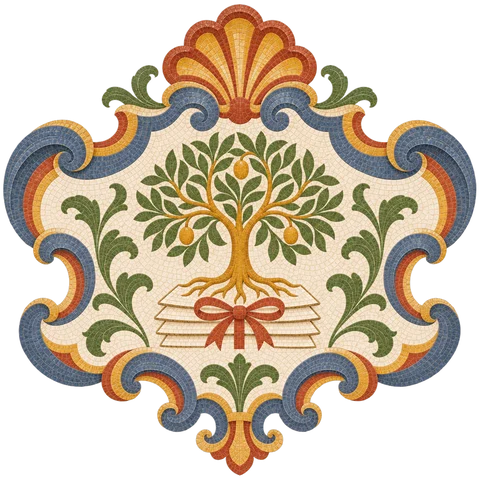
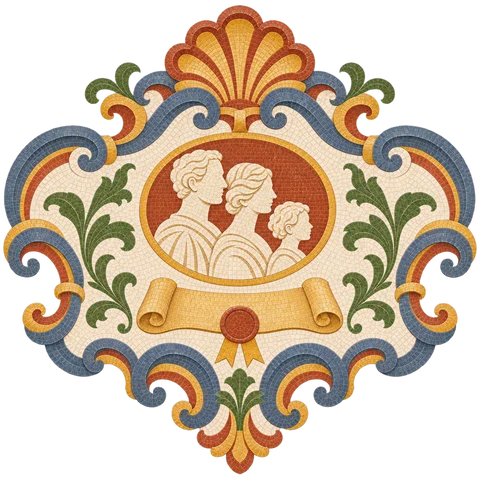
Vespi on the coin, the Kazakhstan passport, a family cameo
Owner: «отчекань на монетах самого Веспи», «на визу D изобрази именно
что паспорт Казахстана», «справки о семье переработай».

- DSU and ISEEU: Vespi minted on one large thin coin with a laurel rim,
  made with the Vespi master generation as a reference.
- Visa D: the passport of Kazakhstan, navy with the golden state emblem
  and the chip symbol, no writing; it also serves the visa point about
  the passport. The flag cartouche goes.
- Family documents: an oval cameo with the profiles of a family over a
  sealed certificate.

Claude-Session: https://claude.ai/code/session_01EJf3uoJW8TN46ucPCkbbdr

diff --git a/src/components/guides/guideArt.ts b/src/components/guides/guideArt.ts
@@ -26,9 +26,11 @@
    (56px) остаются предметами общего набора. Плоская классическая эмблема
    темы в барочном картуше из мраморной смальты,
    design/illustrations/cartouche-2026-11-19.json. Owner, 19 Nov (о плитках
-   каталога): у визы — «флаг конкретный Казахстана», монеты DSU «слишком
-   по-яичному… более утончённым», у справок семьи вместо колонн — другое
-   (семейное дерево на справках). Паспорт остаётся у пункта визы о паспорте.
+   каталога): монеты DSU «слишком по-яичному… более утончённым», у справок
+   семьи вместо колонн — другое. Затем: «отчекань на монетах самого Веспи»,
+   «на визу D изобрази именно что паспорт Казахстана», «справки о семье
+   переработай» — монета с Веспи, тёмно-синий паспорт с гербом Казахстана
+   (он же у пункта визы о паспорте), камея с профилями семьи над свитком.
    Главная, кабинет и план оставляют общий набор предметов (objectFrame).
    Картинки декоративные (alt=""): смысл несут заголовок и тизер темы. */
 const ART: Record<string, string> = {
@@ -39,7 +41,7 @@ const ART: Record<string, string> = {
   cimea: "folder",
   con: "family-docs",
   iseeu: "coins",
-  visa: "kz-flag",
+  visa: "passport",
   minors: "minors",
   military: "military",
   permesso: "keys",

diff --git a/DESIGN.md b/DESIGN.md
@@ -2137,13 +2137,16 @@ Notes from the owner, on phone screenshots of the catalogue tiles, a guide
 road and the document check:
 
 - **Cartouches.**
-  - Visa D: «флаг конкретный Казахстана». The emblem is the Kazakhstan flag
-    on a slim pole. The passport cartouche stays with the visa point about
-    the passport.
-  - DSU and ISEEU: the coins looked «слишком по-яичному», so they are now
-    three thin coins with laurel rims, «более утончённым».
-  - Family documents: the two «странные» columns became a family tree on a
-    stack of papers.
+  - Visa D: first «флаг конкретный Казахстана», then «изобрази именно что
+    паспорт Казахстана». The emblem is the Kazakhstan passport: navy cover
+    with the golden state emblem and the chip symbol, no writing. The same
+    picture serves the visa point about the passport.
+  - DSU and ISEEU: the coins looked «слишком по-яичному» («более
+    утончённым»), then «отчекань на монетах самого Веспи». Vespi is minted
+    on one large thin coin with a laurel rim, with two coins behind it.
+  - Family documents: the two «странные» columns, then «справки о семье
+    переработай». The emblem is an oval cameo with the profiles of a family
+    over a sealed certificate.
 - **The upload zone of the document check.** The felt folder («чуть
   страшновата») became the doc-check cartouche: a scroll, a magnifying
   glass and a check. It is shown at 88 px, at full colour, in the plan and
